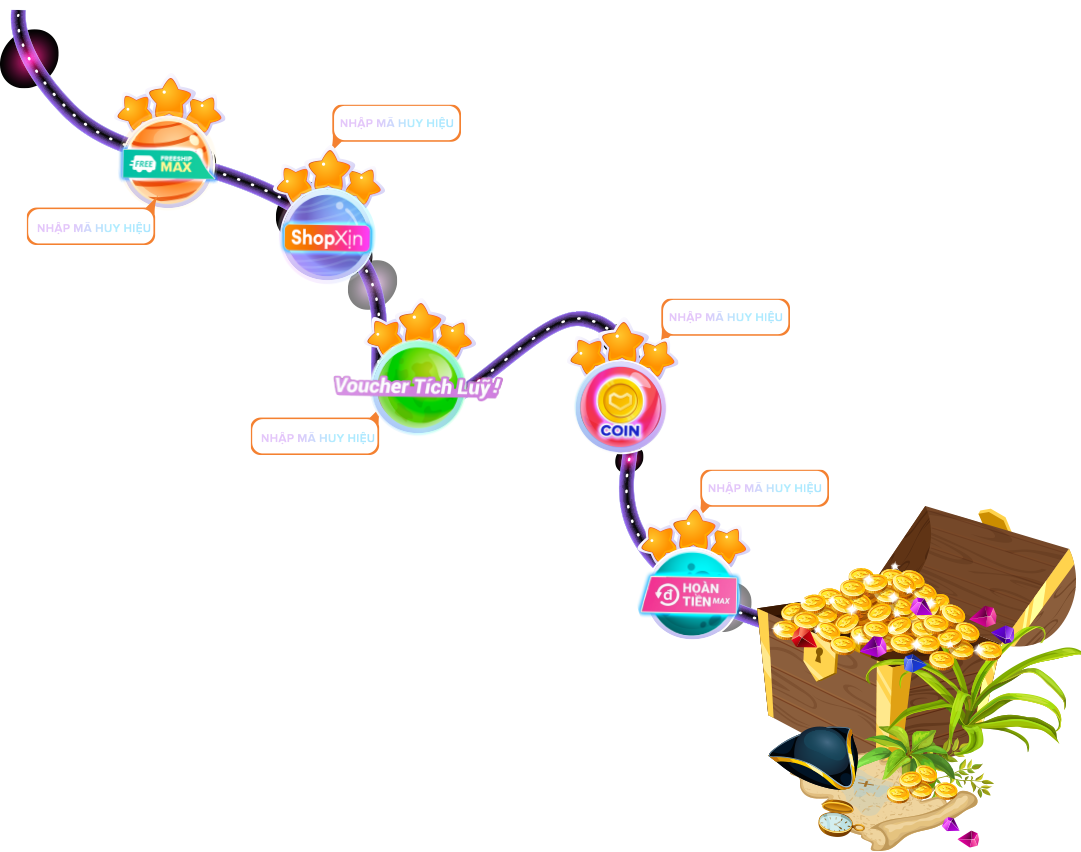
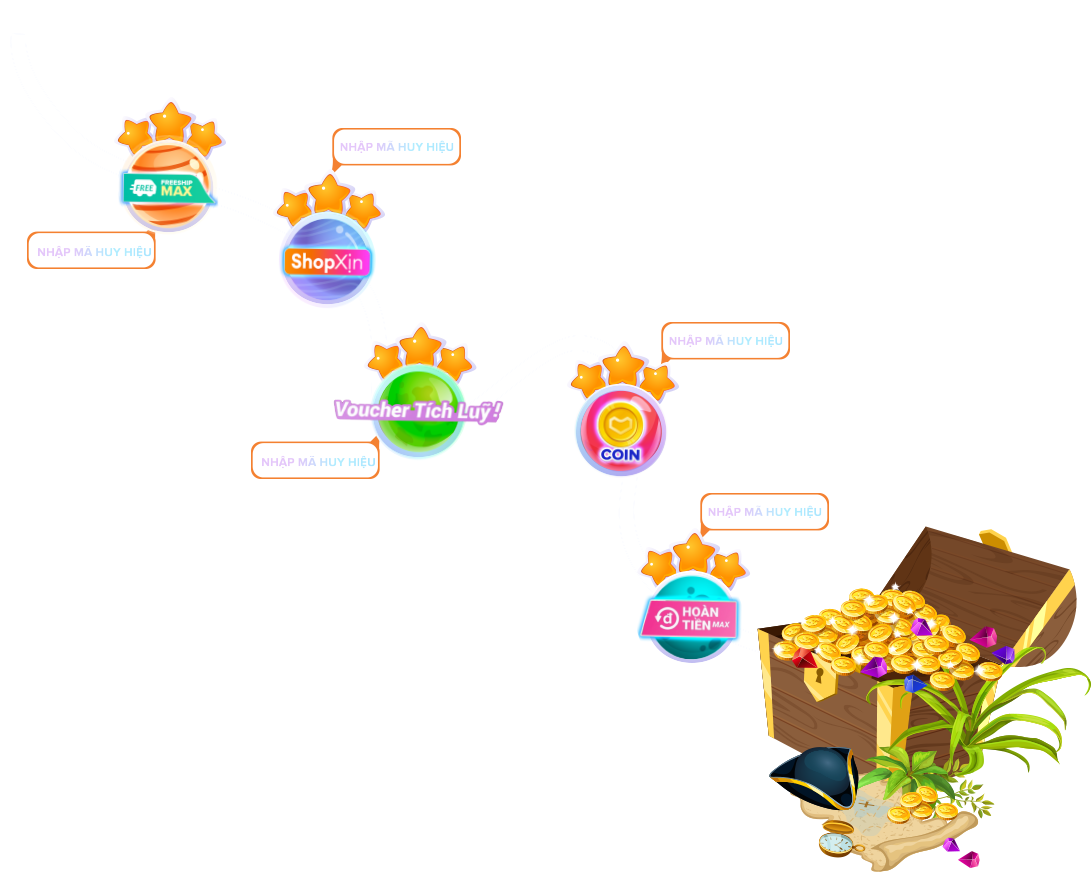
update

Changed region(s): [[0.0, 0.0, 1.0, 1.0]]

diff --git a/src/components/codesEnter/CodesEnterMobile.tsx b/src/components/codesEnter/CodesEnterMobile.tsx
@@ -20,8 +20,8 @@ interface Props {
 }
 
 const MAP_DIME = {
-  width: 2500,
-  height: 898,
+  width: 1081,
+  height: 852,
 };
 
 enum MESSAGE {
@@ -32,7 +32,7 @@ enum MESSAGE {
   "HOÀN TIỀN MAX",
 }
 
-const CodesEnter: React.FC<Props> = ({ className }) => {
+const CodesEnterMobile: React.FC<Props> = ({ className }) => {
   const dispatch = useDispatch();
   const setting = useSelector((state: RootState) => state.setting);
   const navigate = useNavigate();
@@ -99,7 +99,7 @@ const CodesEnter: React.FC<Props> = ({ className }) => {
     dispatch(reset());
     navigate("/");
   };
-
+  console.log(window.innerWidth, window.innerHeight);
   return (
     <div
       className={clsx("relative", className)}
@@ -111,11 +111,11 @@ const CodesEnter: React.FC<Props> = ({ className }) => {
       <div
         className=" absolute path-wrapper top-0"
         style={{
-          transform: `scale(${(window.innerWidth - 300) / MAP_DIME.width})`,
+          transform: `scale(${(window.innerWidth - 10) / MAP_DIME.width})`,
         }}
       >
         <img
-          src="/CON DUONG WEB.png"
+          src="/path-mobile.png"
           alt="path"
           className="max-w-none"
           width={MAP_DIME.width}
@@ -131,7 +131,7 @@ const CodesEnter: React.FC<Props> = ({ className }) => {
               activeNumber > 0 && "code-item-active"
             )}
             alt="code1"
-            style={{ width: 254, height: 301, bottom: 0, left: 120 }}
+            style={{ width: 150, height: 200, top: 0, left: 0 }}
             onClick={activeNumber === 0 ? handleClickCode : noop}
           />
           <img
@@ -143,7 +143,7 @@ const CodesEnter: React.FC<Props> = ({ className }) => {
               activeNumber > 1 && "code-item-active"
             )}
             alt="code2"
-            style={{ width: 260, height: 307, bottom: 150, left: 550 }}
+            style={{ width: 150, height: 177, top: 100, left: 240 }}
             onClick={activeNumber === 1 ? handleClickCode : noop}
           />
           <img
@@ -155,7 +155,7 @@ const CodesEnter: React.FC<Props> = ({ className }) => {
               activeNumber > 2 && "code-item-active"
             )}
             alt="code3"
-            style={{ width: 384, height: 305, bottom: 0, left: 870 }}
+            style={{ width: 190, height: 150, top: 300, left: 340 }}
             onClick={activeNumber === 2 ? handleClickCode : noop}
           />
           <img
@@ -167,7 +167,7 @@ const CodesEnter: React.FC<Props> = ({ className }) => {
               activeNumber > 3 && "code-item-active"
             )}
             alt="code4"
-            style={{ width: 264, height: 300, bottom: 480, left: 1163 }}
+            style={{ width: 150, height: 181, top: 240, left: 550 }}
             onClick={activeNumber === 3 ? handleClickCode : noop}
           />
           <img
@@ -179,7 +179,7 @@ const CodesEnter: React.FC<Props> = ({ className }) => {
               activeNumber > 4 && "code-item-active"
             )}
             alt="code5"
-            style={{ width: 260, height: 315, bottom: 180, left: 1622 }}
+            style={{ width: 150, height: 181, bottom: 180, left: 650 }}
             onClick={activeNumber === 4 ? handleClickCode : noop}
           />
           <img
@@ -188,7 +188,7 @@ const CodesEnter: React.FC<Props> = ({ className }) => {
               "absolute code-item"
             )}
             alt="code5"
-            style={{ width: 600, height: 600, bottom: 290, left: 2000 }}
+            style={{ width: 300, height: 300, top: 480, left: 800 }}
             onClick={activeNumber === 4 ? handleClickCode : noop}
           />
         </div>
@@ -279,4 +279,4 @@ const CodesEnter: React.FC<Props> = ({ className }) => {
   );
 };
 
-export default CodesEnter;
+export default CodesEnterMobile;

diff --git a/src/App.css b/src/App.css
@@ -3,6 +3,7 @@
 @tailwind utilities;
 
 :root {
+  --active-color: #fff;
   --hover-color: #ff9502;
   --toastify-toast-width: 350px;
 }
@@ -16,6 +17,14 @@
   background-position: top center, bottom;
 }
 
+.appSecond {
+  @apply min-h-screen bg-no-repeat;
+  background-image: url("../public/codes-bg.png"),
+    url("../public/bg-linear.png");
+  background-size: contain, cover;
+  background-position: 0px 70px, bottom;
+}
+
 @screen lg {
   .app {
     background-size: 100% auto, cover;
@@ -23,8 +32,6 @@
   }
 
   .appSecond {
-    background-image: url("../public/codes-bg.png"), url("../public/bg-linear.png");
-    background-size: contain, cover;
     background-position: top left, bottom;
   }
 }
@@ -101,11 +108,42 @@
   -ms-user-select: none;
 }
 
-.code-item-active {
+.code-item-current {
   filter: drop-shadow(-2px 0px 2px var(--hover-color))
     drop-shadow(-2px 2px 2px var(--hover-color))
     drop-shadow(2px 2px 2px var(--hover-color))
     drop-shadow(2px -2px 2px var(--hover-color));
+}
+
+.code-item-active {
+  filter: drop-shadow(-2px 0px 2px var(--active-color))
+    drop-shadow(-2px 2px 2px var(--active-color))
+    drop-shadow(2px 2px 2px var(--active-color))
+    drop-shadow(2px -2px 2px var(--active-color));
+  animation-name: dropshadow;
+  animation-duration: 2s;
+  animation-iteration-count: infinite;
+}
+
+@keyframes dropshadow {
+  0% {
+    filter: drop-shadow(-2px 0px 2px var(--active-color))
+      drop-shadow(-2px 2px 2px var(--active-color))
+      drop-shadow(2px 2px 2px var(--active-color))
+      drop-shadow(2px -2px 2px var(--active-color));
+  }
+  50% {
+    filter: drop-shadow(-2px 0px 2px var(--active-color))
+      drop-shadow(-2px 2px 8px var(--active-color))
+      drop-shadow(2px 2px 8px var(--active-color))
+      drop-shadow(2px -2px 8px var(--active-color));
+  }
+  100% {
+    filter: drop-shadow(-2px 0px 2px var(--active-color))
+      drop-shadow(-2px 2px 2px var(--active-color))
+      drop-shadow(2px 2px 2px var(--active-color))
+      drop-shadow(2px -2px 2px var(--active-color));
+  }
 }
 
 .path-wrapper {

diff --git a/src/pages/kv/index.tsx b/src/pages/kv/index.tsx
@@ -32,8 +32,8 @@ const Kv: React.FC<Props> = (props) => {
   // const isInEvent = eventDate ? isPast(new Date().getTime() - 1) : false;
 
   const handleRegister = () => {
-    navigate('/register')
-  }
+    navigate("/register");
+  };
 
   return (
     <div className="app">
@@ -61,11 +61,19 @@ const Kv: React.FC<Props> = (props) => {
             endDate={eventDate ? eventDate.startTime : new Date().toString()}
           />
           <KvRules />
+
+          {isInEvent && (
+            <div className="text-center pr-5 mt-4">
+              <Button onClick={handleRegister} className=" md:text-2xl">
+                Đăng Ký
+              </Button>
+            </div>
+          )}
         </div>
       </Container>
 
       <div className="lg:block hidden w-full">
-        <img src="/check-points.png" className="mt-2" alt="points" />
+        <img src="/countdown.png" className="mt-2" alt="points" />
       </div>
 
       <img
@@ -73,14 +81,6 @@ const Kv: React.FC<Props> = (props) => {
         className="block lg:hidden mt-2"
         alt="points"
       />
-
-      {isInEvent && (
-        <div className="text-center pb-10 pr-5">
-          <Button onClick={handleRegister} className=" md:text-2xl">
-            Đăng Ký
-          </Button>
-        </div>
-      )}
 
       <Audio
         src="SOUND/KV chờ/videogameloop_29s_145bpm_LOOP.wav"

diff --git a/src/pages/codes/index.tsx b/src/pages/codes/index.tsx
@@ -1,7 +1,7 @@
 import React, { useEffect, useState } from "react";
 import Audio from "../../components/audio";
 import { STATUS } from "../../constants";
-import CodesEnter from "../../components/codesEnter";
+import CodesEnter, { CodesEnterMobile } from "../../components/codesEnter";
 
 interface Props {
   className?: string;
@@ -19,7 +19,7 @@ const Kv: React.FC<Props> = (props) => {
   console.log(status);
 
   return (
-    <div className="app appSecond">
+    <div className="appSecond">
       <img
         src="/lzd-logo.png"
         alt="logo"
@@ -28,11 +28,15 @@ const Kv: React.FC<Props> = (props) => {
       />
 
       <div>
-        <img src="/codes-banner.png" alt="lzd" className="max-w-full" />
+        <img src="/codes-banner.png" alt="lzd" className="max-w-full pt-28" />
       </div>
 
-      <div className="pl-24">
-        <CodesEnter className="-mt-28" />
+      <div className="pl-24 hidden lg:block">
+        <CodesEnter className="-mt-40" />
+      </div>
+
+      <div className="block lg:hidden">
+        <CodesEnterMobile className="" />
       </div>
 
       <Audio

diff --git a/src/components/Loading.tsx b/src/components/Loading.tsx
@@ -6,7 +6,7 @@ interface Props {
 
 const Loading: React.FC<Props> = (props) => {
   return (
-    <div className="fixed z-10 inset-0 overflow-y-auto">
+    <div className="fixed z-50 inset-0 overflow-y-auto">
       <div className="fixed inset-0 bg-gray-500 bg-opacity-75 transition-opacity">
         <div className="flex items-center justify-center min-h-screen text-center pt-2">
           <div className="relative">

diff --git a/src/components/codesEnter/index.ts b/src/components/codesEnter/index.ts
@@ -1,1 +1,2 @@
 export { default } from './CodesEnter'
+export { default as CodesEnterMobile } from './CodesEnterMobile'
